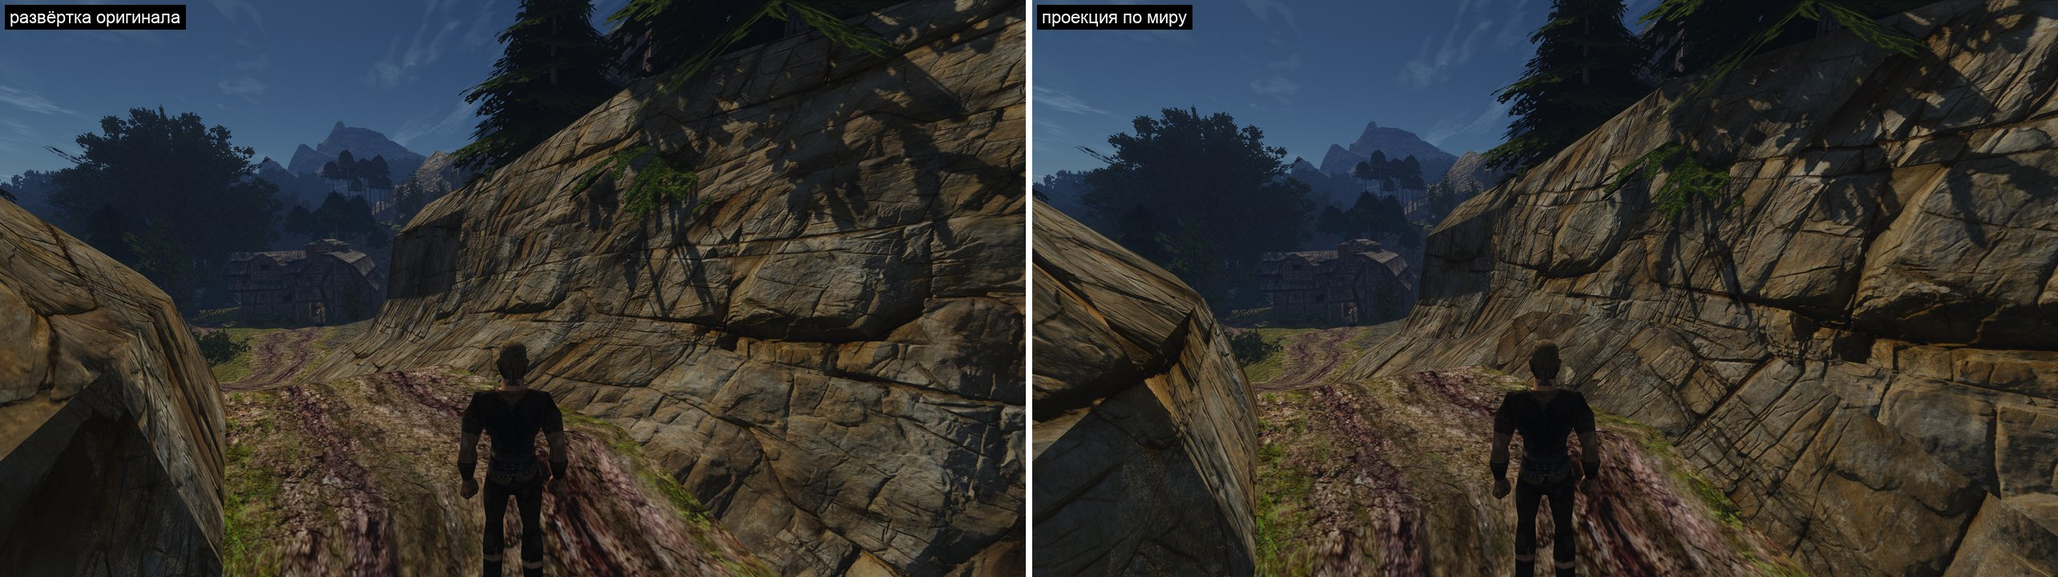
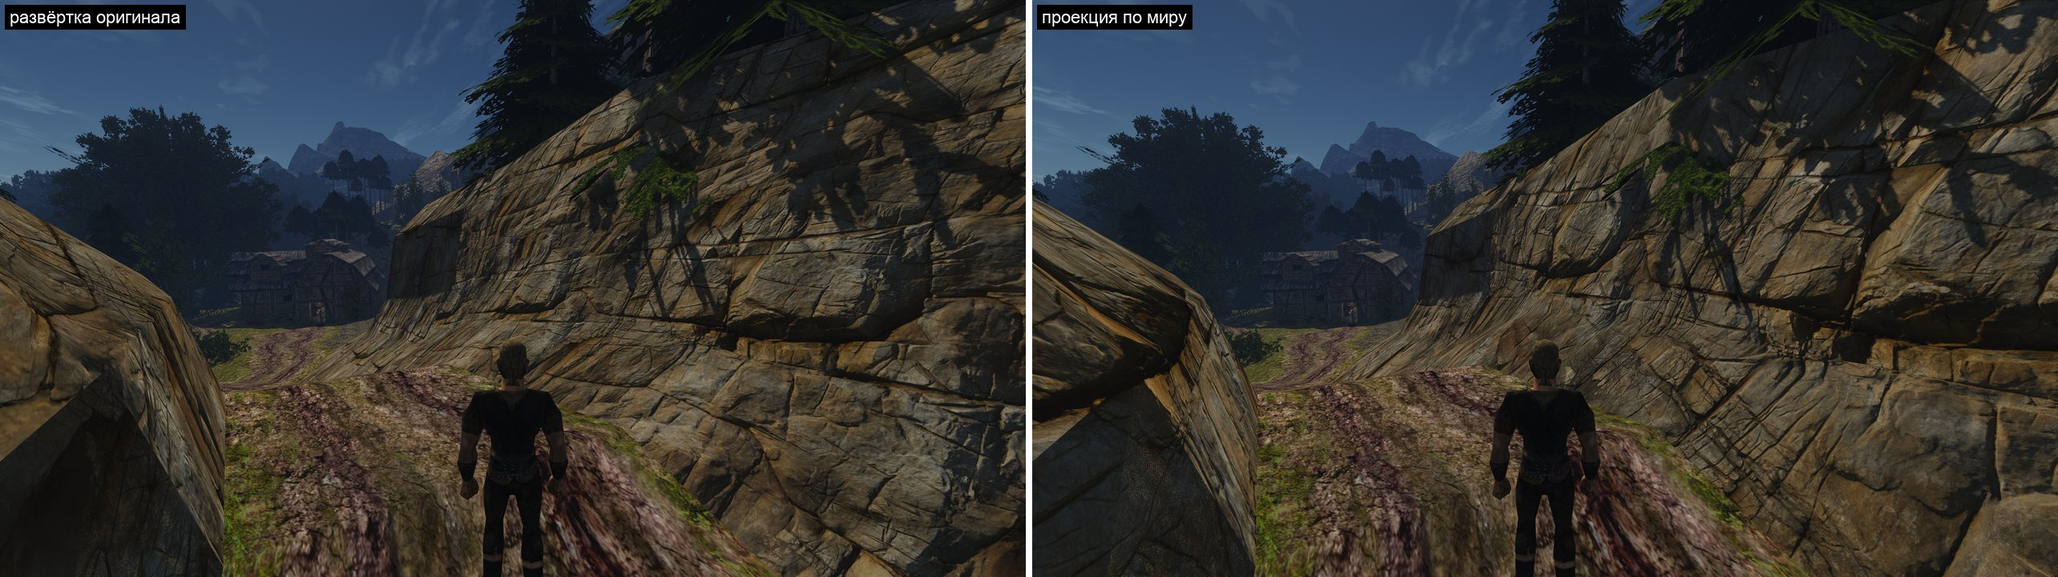
Rock projection: reshoot with the bounded selection normal, three-way plane-choice sheet, task 1 waits for acceptance by the frames

diff --git a/docs/features/engine-render.md b/docs/features/engine-render.md
@@ -62,7 +62,7 @@
 | Формы мимики Mark (Audio2Face v3.0) на своей голове: шаг `shapes` сборщика головы по ключу `"shapes": "mark"` в `npc.json` заменяет формы ARKit (кроме моргания, взгляда, `tongueOut`) на перенесённые с Mark — опорные точки рта, подбородка и век совпадают с точками Mark, веки и брови из одного источника, кожа не входит в яблоко — и пишет профиль лица с весами, пересчитанными под их размах, `speech_face` без `cap`, с `mouthClose` ×1,4; в игре губа за верхней 1,0–1,6 % почти закрытых кадров против 7,6–11,7 % у MPFB | собрать голову без ключа `shapes` (голова MPFB); контент с головой MPFB | `reports/content/2026-11-hero-head/shapes/` (`head_shapes.py`, `transfer.py`, `head_glb.py`, `mark_profile.py`), `scripts/content/npc/build_head.py` | `head_shapes.py` (опорные точки, кожа против яблока на пределах взгляда), `lip_gap.py`, `lip_gap_game.py --contact --mark` по `face.csv` клипа `speech-face-clip.bench`, `mark_clip.py` | [Свои персонажи](../own-content-characters.md), [разбор](../../reports/content/2026-11-hero-head/face-shapes.md#формы-mark-в-игре-2026-11-13) |
 | Свои осколки индексированного GLB: соседний `.fracture` v2 с размером/CRC32, без кэша оригинала; офлайн-резка без архивов; рядом с `model.debris.glb` — v3, куски по деталям вещи | удалить собственный `.fracture` или `[GAME] destruction=0`; без `model.debris.glb` резка пишет v2; запуск `scripts/fracture.sh content <каталог> [--verify]` явный | `common/physics/fracture.cpp`, `common/resources.*`, `scripts/fracture/` | `gothic-mesh-gltf-test`, unittest конвейера, `own-mesh-fracture` на Ryzen с индексом/без ([отчёт](../../reports/content/2026-10-own-meshes-fracture/README.md)) | [Своя игра](../own-content.md#как-работает-сейчас), [физика](../physics.md#подвижный-мир) |
 | Гекс-тайлинг своих карт: общий расчёт трёх ячеек, случайный сдвиг и поворот нормали; normal/ORM берут одну доминирующую ячейку при весе ≥0,7 с плавным переходом | `antitile: "off"` в записи `materials.json` (по умолчанию); `offset` сохраняет направление, `rotate` разрешает поворот; размер — `antitile_cell` | `resources.*`, `graphics/material.*`, `drawbuckets.*`, `shader/materials/main.frag` | `test-material.py --pattern antitile`, `rf.bench`: off/offset/rotate, автокорреляция, солнце/фонарь, PSNR и FPS | [Своя игра](../own-content.md#как-работает-сейчас) |
-| Проекция карт материала по миру (скалы): две плоскости по нормали грани, пласты горизонтальны, без швов и растяжения развёртки оригинала | поле `projection: {tile_m}` записи `materials.json` (без поля — по UV меша) | `resources.*`, `graphics/material.*`, `drawbuckets.*`, `visualobjects.cpp`, `shader/materials/material_projection.glsl` | `gothic-material-texture-test` (`projectionRecords`), `landscape-rock-material.bench`, место `rock` стенда `perf.sh` | [Свои материалы](../own-content-textures.md#карты-и-рендер), [задача 1 В3](../../reports/content/2026-11-landscape-pilot/b3-rock-material.md) |
+| Проекция карт материала по миру (скалы): две плоскости по нормали вершины в пределах 20° от грани, пласты горизонтальны, без швов и растяжения развёртки оригинала | поле `projection: {tile_m}` записи `materials.json` (без поля — по UV меша) | `resources.*`, `graphics/material.*`, `drawbuckets.*`, `visualobjects.cpp`, `shader/materials/material_projection.glsl` | `gothic-material-texture-test` (`projectionRecords`), `landscape-rock-material.bench`, место `rock` стенда `perf.sh` | [Свои материалы](../own-content-textures.md#карты-и-рендер), [задача 1 В3](../../reports/content/2026-11-landscape-pilot/b3-rock-material.md) |
 | Ray query (тени точечных светильников, свет не проходит сквозь стены) — **выключен по умолчанию на всех платформах** с 2026-10-28: сцена трассировки перестраивала весь TLAS при каждом сдвиге объекта, интерьер на M1 шёл 4–8 FPS. С 2026-11-09 (шаг 1б-2) сцена постоянная: сдвиг объекта переписывает его слот, TLAS собирается в кадре только при изменениях. С 2026-11-13 (шаг 1в) ландшафт с `-rt 1` подгружается по кускам: кусок при публикации строит две BLAS (сплошное и альфа-тест, геометрия на подмеш) из своей GPU-страницы, у слота — отрезок записей `rtDesc`; цельный ландшафт — те же две BLAS на весь мир | включить для опытов: `-rt 1` или для стендов `OPENGOTHIC_RT=1` (флаг главнее; на DX12 недоступно: TLAS в кадре есть только на Vulkan и Metal) | `common/commandline.*` | стенд `scripts/perf.sh interior` | [отчёт 10-18](../../reports/render-features/2026-10-18/README.md), [замер](../performance.md#план-и-журнал) |
 | GI-пробы на дискретной видеокарте с трассировкой — только вместе с `-rt 1`: точки попадания лучей проб освещаются по формулам трассировщика путей — все лампы в радиусе по дереву рамок ламп (один луч тени с перевзвешиванием по их свету; свет лампы — точное среднее функции трассировщика по пятну конуса сэмпла на плоскости попадания: интеграл вокруг основания лампы, по углу 8 направлений, 2б-3) и солнце с лучом тени, небо с его ночным небом, отскок от проб прошлого кадра (без пробы — своя освещённость пробы); сэмплы пересвечиваются по очереди (все за ≈0,125 с, очередь — по счётчику пересветов самой пробы) в кэш RGB9E5, новая проба — целиком и без истории; облучённость пробы — гармоники L2 со свёрткой косинуса (7 текселей RGBA16F на пробу, 4 МБ; 2б-2), смешиваются по времени на месте, без копии прошлого кадра (τ 0,1 с, сброс при скачке облучённости вдоль оси); при часах игры назад (загрузка сохранения) и смене мира пробы начинаются заново (бенч этого не проверяет: загрузки сохранения в сценарии нет), при скачке времени суток (сон, `set time`) их свет считается заново (`OPENGOTHIC_GI_JUMP_RESET=0` выключает это для замера затухания света в цепочках проб, `scripts/bench/gi-decay.bench`); свет в сэмплах и кубах хранится с масштабом 2⁻⁸ (днём лампы ×1/экспозиция дают до 10⁶ и выходили за 65 408 RGB9E5); пробы не зависят от взгляда (2б-1): lod по расстоянию до камеры, проба живёт, пока её берут пиксели или сэмплы других проб (5 с, при нехватке мест первой уходит самая давняя), попадания ближе 10 м без пробы заводят её (512 заявок за кадр), поиск пробы в попадании — в мире, пробы вне экрана пересвечиваются раз в 2 кадра; без SSAO и `ShadowMap #1`; счётчики `gi_probes_live`, `gi_probes_traced`, `gi_probes_from_hits`, `gi_probes_freed`. `-gi 2` — сурфели апстрима (прототип). Эталон для GI — трассировщик путей (консоль `toggle pathtrace`: 5 отскоков, солнце, небо, лампы) | `-gi 0`; для стендов `OPENGOTHIC_GI=0\|1\|2` (флаг главнее) | `common/gothic.cpp`, `common/commandline.*`, `common/graphics/renderer_gi.cpp` (`prepareGi`), `shader/lighting/rt/probe_*.comp\|frag`, `shader/lighting/lightstree/` | кадры и клипы `scripts/bench/gi-clips.bench` по вариантам (каждый кадр ещё и без героя, NPC и частиц — `-bare`; ракурсы утечек сквозь тонкие стены `leak-*`), эталон тех же кадров `scripts/bench/gi-reference.bench`, сравнение по клеткам, отклик, поворот и затухание `scripts/gi_compare.py` (`--response`, `--turn`, `--decay`), поворот камеры `scripts/bench/gi-turn.bench`, затухание без сброса `scripts/bench/gi-decay.bench`; цена — `scripts/perf.sh` с `OPENGOTHIC_GPU_PASSES=1` | [отчёт](../../reports/render-features/2026-10-18/README.md), [исследование GI](../../reports/render-features/2026-11-08-rt-revisit/step-2.md), [2а](../../reports/render-features/2026-11-08-rt-revisit/step-2.md#2а-сделано), [2б-1](../../reports/render-features/2026-11-08-rt-revisit/step-2b.md#2б-1-сделано), [пересмотр 2б-1](../../reports/render-features/2026-11-08-rt-revisit/step-2b.md#2б-1-пересмотр), [2б-2](../../reports/render-features/2026-11-08-rt-revisit/step-2b.md#2б-2-сделано), [2б-3](../../reports/render-features/2026-11-08-rt-revisit/step-2b.md#2б-3-сделано) |
 | Привыкание глаза под GI (`-gi 1`): множитель кадра в проходе тонов после всего света, блума и TAA — замер освещённости кадра (яркость / альбедо G-буфера, не меньше 0,01, × 0,18, как `IgnoreMaterials` у UE) после дымки, до прозрачного и частиц, без неба (сетка 128×72, гистограмма логарифмов, окно 50–95 %, чтение через кадр), ключ открытого места (день +1,6 EV освещённости — рынок в полдень; ночь −2,0 — поля в 23:00), только вверх, не больше 2,5 ступени, 1 ступень/с к темноте и 3 к свету, сброс без хода при скачке камеры больше 3 м за кадр (телепорт, срез с переносом камеры; поворот на месте — обычным ходом), часах назад и скачке времени суток больше 10 игровых минут; без GI множитель ровно 1. Вместе с ним: дымка у камеры нарастает с нуля — вуаль рассеяния целого слоя таблицы дымки в метре от камеры убрана (и без GI). Под GI и у эталона многократное рассеяние дымки на шаге луча × `mix(бит тени солнца, 1, visCam)` (Д4), где `visCam` — доля неба над камерой в конусе 45° у зенита (16 лучей за кадр с альфа-тестом, все 256 направлений на сбросе, среднее τ 0,5 с): в пещере пелена в тени уходит (`visCam` 0), в лесу — частично (0,31–0,37); открытые места 0,86–1,0; прозрачное (частицы, стекло) берёт ту же долю по битам тени солнца вдоль своего луча (`L_FogOcc`), вода — дымку `fog.frag` | `-eye 0` или `OPENGOTHIC_EYE=0` (флаг главнее); журнал множителя `OPENGOTHIC_EYE_LOG=<файл>` | `shader/lighting/eye_meter.comp`, `common/graphics/eyeadaptation.*`, `renderer_eye.cpp`, `renderer_post.cpp`; дымка — `shader/sky/fog.frag` (`FOG_SKY_VIS`), `shader/materials/main.frag`, `shader/lighting/rt/fog_sky_vis.comp`, `renderer_fogsky.cpp` | листы `step-2/eye-<ракурс>.jpg`, `eye-veil.jpg`, `eye-haze.jpg`, клипы `scripts/bench/gi-accept.bench` в трёх вариантах, журнал `OPENGOTHIC_EYE_LOG`; цена — `scripts/perf.sh` с `OPENGOTHIC_GPU_PASSES=1` (проход `Eye-meter`) | [привыкание глаза](../../reports/render-features/2026-11-08-rt-revisit/step-2-shade.md#привыкание-глаза-сделано-12112026) |

diff --git a/reports/content/2026-11-landscape-pilot/b3-rock-material.md b/reports/content/2026-11-landscape-pilot/b3-rock-material.md
@@ -84,7 +84,7 @@
 
 **Способ.**
 - Две плоскости (Quilez): главная и средняя оси нормали, доли `clamp((|n| − 0,577)/0,423)` в квадрате; доля ниже 1/64 обнуляется, обе доли пересчитываются одинаково (на 45° — ровно 0,5 и 0,5), поэтому вторая плоскость выбирается только на гранях 37–53° от оси, иначе одна выборка на карту.
-- Плоскости выбираются по нормали самой грани (`cross(dFdx(pos), dFdy(pos))`), не по сглаженной нормали вершины. Первый прогон с нормалью вершины размазал левую грань валуна вертикальными полосами: у скал Gothic она на острых рёбрах отходит от грани до 45°, и плоскость выбирается поперёк грани ([пара](shots/projection-face-normal.jpg)). По нормали грани растяжение не больше 1,41, соседние грани одной плоскости продолжают рисунок без шва.
+- Плоскости и их доли выбираются по нормали вершины, удержанной в пределах 20° от нормали самой грани (`cross(dFdx(pos), dFdy(pos))`; постоянная `ProjectionLimit*`). Решение ведущего после двух проб ([лист](shots/projection-plane-choice.jpg)): по одной нормали грани доли постоянны на треугольнике и скачут на его рёбрах — лоскуты на гранях почти одного наклона; по одной нормали вершины доли непрерывны, но у скал Gothic она на острых рёбрах отходит от грани до 45°, плоскость ложится поперёк грани и размазывает её. В пределах 20° берётся нормаль вершины: доли непрерывны, грани до 40° друг к другу продолжают рисунок без обрыва; дальше — нормаль грани, повёрнутая к ней на 20°: плоскость не дальше 20° от грани, растяжение ограничено, обрыв остаётся только на остром ребре. Базисы нормали по-прежнему на нормали затенения.
 - В боковых плоскостях v = −высота мира (вниз, как v движка), u — вдоль грани, так что cross(u, v) смотрит наружу и рисунок не зеркалится; сверху и снизу — плоскость XZ.
 - Градиенты выборок — `dot(dFdx(pos), ось)·k·mipGradScale`, общие для обеих плоскостей: скачка мипа на смене плоскости нет.
 - Нормаль: в каждой плоскости базис `mappedNormal` этой плоской развёртки — поверхностные градиенты u и v, `ось − n(n·ось)`, со знаком экранного определителя и общей нормировкой по большей длине; затем две нормали смешиваются. На грани вдоль оси базис совпадает с тем, что `mappedNormal` строит по UV меша, уложенной так же.
@@ -99,14 +99,14 @@
 ![arch](shots/projection-arch.jpg)
 ![eve-3](shots/projection-eve-3.jpg)
 
-- **`road-2`, `road-3`, `eve-3` — стена у дороги.** Пласты горизонтальны по всей стене, швов развёртки нет. Наклонные полосы оригинала ушли. Ближний валун слева на `road-3` и `eve-3` виден почти с ребра, рисунок на нём сжат ракурсом, растяжения нет.
-- **`road-4` — валун.** Тёмного прямоугольника нет; пласты горизонтальны на боковых гранях. Что осталось: где соседние грани валуна попали в разные плоскости, рисунок обрывается по их общему ребру (треугольники в середине валуна). Обрыв лежит на ребре геометрии, но на гранях почти одного наклона он читается как лоскут.
+- **`road-2`, `road-3`, `eve-3` — стена у дороги.** Пласты горизонтальны по всей стене, швов развёртки нет. Наклонные полосы оригинала ушли. Ближний валун слева на `road-3` и `eve-3`: большая грань идёт через свои треугольники одним рисунком; грань справа видна почти с ребра, рисунок сжат ракурсом. Рисунок меняется на остром гребне между ними.
+- **`road-4` — валун** ([три способа выбора](shots/projection-plane-choice.jpg)). Полос на левой грани нет (были по нормали вершины). Лоскутов-треугольников в середине валуна нет (были по нормали грани): от прогона по нормали грани кадр отличается только на пяти гранях, каждая меняется целиком, в части грани ничего не поменялось. Где рисунок ещё меняется: длинное ребро между наклонным верхом и отвесной стороной, рёбра левой наклонной грани и гребень над ней — рёбра, на которых меняется и свет, то есть грани расходятся заметно больше 40°. Внутри одной грани линии смены долей не видно ни на одном кадре.
 - **`ledge` — уступ издали.** Пласты горизонтальны на обеих гранях, угол стыкуется. Читается повтор рисунка с шагом 5,75 м по ширине стены — это задача 3.
 - **`arch` — арка.** Единый слоистый камень вместо лоскутов разной плотности; тот же повтор крупных блоков на большой стене.
-- **Яркость.** Средняя яркость скалы на кадре против развёртки оригинала: `road-2` 0,99, `road-3` 0,98, `ledge` 0,99, `road-4` 1,01, `arch` 1,00.
-- **Линии смены плоскости** на гранях около 45° не видно ни на одном кадре: в пределах грани доли постоянны.
+- **Стена и арка против прошлых листов.** На `road-2`, `road-3`, `eve-3`, `ledge` кадр от прогона по нормали грани отличается на 0,3–2 % пикселей (порог 24 из 255) — отдельные грани; на вид без изменений. `arch` отличается на 21 %, но так же отличаются земля и трава: ракурс `arch` сдвигается от прогона к прогону (между двумя прошлыми прогонами — те же 21 %).
+- **Яркость.** Средняя яркость скалы на кадре против развёртки оригинала: `road-2` 1,00, `road-3` 0,99, `ledge` 0,99, `road-4` 1,02, `arch` 1,00.
 
-**Что не так.** Пункт приёмки «без обрыва на гранях валуна» не выполнен: рисунок обрывается по рёбрам, где соседние грани в разных плоскостях (`road-4`). Это плата за выбор плоскостей по нормали грани; по сглаженной нормали вершины, как сказано в брифе, обрывов меньше, но грани с острыми рёбрами размазываются ([пара](shots/projection-face-normal.jpg)). Третий круг подбором не начат; выбор за пользователем: (а) оставить нормаль грани; (б) вернуть нормаль вершины и принять размазывание на острых рёбрах; (в) нормаль вершины, повёрнутая к грани не дальше заданного угла, — компромисс, нужна проба. Повтор 5,75 м на больших стенах — задача 3.
+**Что не так.** На валуне рисунок меняется по острым рёбрам (больше 40° между гранями); их скругление под новым материалом — дело геометрии (В2 как вспомогательный шаг), не этой задачи. Повтор 5,75 м на больших стенах — задача 3. Задача ждёт приёмки по кадрам.
 
 **Цена.** Выборок на пиксель: по UV меша — 3 (цвет, нормаль, ORM), с проекцией — 3, на гранях 37–53° от оси — 6. Время видеокарты на вид `road-3` — место `rock` стенда `scripts/perf.sh` ([`perf-rock.bench`](../../../scripts/bench/perf-rock.bench)): RTX 3080, 1920×1080, полное разрешение, VSM, заявки `gq quiet`, 8 с `perf sample` (970–1048 кадров), медиана `gpu_ns`. Скала — около половины кадра.
 

diff --git a/docs/own-content-textures.md b/docs/own-content-textures.md
@@ -10,7 +10,7 @@
 - Прямые загрузки альбедо у вариаций статичных и skinned-мешей и осколков проходят через `Resources::loadMaterialAlbedo`: конечное имя ищется в `materials.json`, успешная подмена отмечается обычным `materialAlbedoReplaced`, при отсутствии своего albedo вызывается прежний загрузчик. Ошибка собственного DDS даёт заглушку без открытия оригинала и без отметки подмены. Вариации включают только теги `_V0`/`_C0`, которые подставляет движок; буквы `V`/`C` внутри слов их не включают. Классификация прозрачности пересчитывается для выбранного albedo по исходным `alpha_func`, группе, `color.a` и разрешению альфа-теста, как в конструкторе; у осколков альфа-тест по умолчанию выключен. Явные переопределения режима сохраняются. Проверка — target `gothic-material-texture-test`: настоящий Resources с временными DDS/JSON, вариантное имя, перепись, пустой индекс и создание skinned `ProtoMesh`/`MeshObjects::Mesh` с проверкой материала draw bucket.
 
 - Антиповтор своих карт включается у записи `materials.json`: `antitile: "offset"` — случайный сдвиг, `"rotate"` — также случайный поворот; `"off"` и отсутствие поля сохраняют прежние выборки. `antitile_cell` — положительный конечный размер ячейки в единицах масштабированной плитки, по умолчанию 1,0. Гекс-тайлинг по [Mikkelsen, JCGT 2022](https://jcgt.org/published/0011/03/05/) смешивает три соседние ячейки с контрастом весов по яркости albedo. Координаты ячеек, повёрнутые производные и яркостные веса считаются один раз. Цвет берёт три выборки; при максимальном весе ≥0,7 нормаль и ORM берут одну общую доминирующую ячейку, иначе три. Между весами 0,6 и 0,7 вспомогательные веса плавно сходятся к доминирующей ячейке: на границе переключения скачка нет. XY нормали переводится из повёрнутых UV в исходную касательную плоскость. Действует только на `MATERIAL_MAPS` у статичных материалов со своей записью; флаги и `antitileCell` передаются через `Material` / `DrawBuckets`. Выключение — `antitile: "off"`; классы с направлением используют `offset` ([таблица](content-style.md#классы-материалов)). Синтетическая проверка — `scripts/content/test-material.py --pattern antitile --antitile off|offset|rotate`, точка `city` стенда `rf.bench`; `--autocorrelation` измеряет пик яркости на периоде плитки, `--psnr` сравнивает кадры без контента. Принятые пороги: `offset` — ≥1,5× при `scale=2`, `rotate` — ≥2×. `--neutral-albedo --no-ao` с усиленной нормалью и контроль `--flat-normal` отделяют освещение рельефа от цвета.
-- Проекция по миру (скалы, [задача 1 шага В3](../reports/content/2026-11-landscape-pilot/b3-rock-material.md)): `"projection": {"tile_m": 5.75}` — карты записи берутся не по UV меша, а по мировой позиции, `tile_m` метров мира на повтор; `scale` при этом не действует. Двухплоскостная проекция (Quilez) — [`material_projection.glsl`](../OpenGothic/shader/materials/material_projection.glsl): две плоскости, на которые грань смотрит больше всего, выбранные по нормали самой грани (сглаженная нормаль вершины на рёбрах скал размазывает текстуру); в боковых плоскостях v — высота мира, пласты горизонтальны, сверху — плоскость XZ. Производные — от позиции, с `mipGradScale`; нормаль поворачивается в каждой плоскости в базисе `mappedNormal` этой плоской развёртки, затем смешивается. Цена — до двух выборок на карту там, где видны обе плоскости, одна в остальном. Только G-буфер непрозрачных материалов меша мира и статичных мешей; у скелетных и морф-моделей запись работает по UV. Неверный тип, `tile_m` ≤ 0 и проекция с `antitile`, отличным от `off`, отвергают запись целиком при чтении; текстура с альфой (альбедо записи или оригинал не в DXT1) — при сборке материала (`Resources::rejectMaterialMaps`, одна строка журнала, дальше — оригинал). Материал, который zen-настройки делают прозрачным или альфа-тестом при непрозрачной текстуре, рисуется по UV, запись для других остаётся. Слот `uvScale` ведра несёт повторы на сантиметр (`Material::projectionUvScale`), раскладка ведра не меняется; плотность для стриминга текстур — один повтор на `tile_m`, у морф-мешей — по UV. Трассировка проб и путей берёт цвет попадания по UV меша (как и без проекции, `scale` она тоже не учитывает). Проверка — `gothic-material-texture-test` (`projectionRecords`), кадры `landscape-rock-material.bench`, цена — место `rock` стенда `scripts/perf.sh`.
+- Проекция по миру (скалы, [задача 1 шага В3](../reports/content/2026-11-landscape-pilot/b3-rock-material.md)): `"projection": {"tile_m": 5.75}` — карты записи берутся не по UV меша, а по мировой позиции, `tile_m` метров мира на повтор; `scale` при этом не действует. Двухплоскостная проекция (Quilez) — [`material_projection.glsl`](../OpenGothic/shader/materials/material_projection.glsl): две плоскости, на которые грань смотрит больше всего, выбранные по нормали вершины, удержанной в пределах 20° от нормали грани (доли непрерывны через грани до 40° друг к другу, плоскость не ложится поперёк грани на острых рёбрах); в боковых плоскостях v — высота мира, пласты горизонтальны, сверху — плоскость XZ. Производные — от позиции, с `mipGradScale`; нормаль поворачивается в каждой плоскости в базисе `mappedNormal` этой плоской развёртки, затем смешивается. Цена — до двух выборок на карту там, где видны обе плоскости, одна в остальном. Только G-буфер непрозрачных материалов меша мира и статичных мешей; у скелетных и морф-моделей запись работает по UV. Неверный тип, `tile_m` ≤ 0 и проекция с `antitile`, отличным от `off`, отвергают запись целиком при чтении; текстура с альфой (альбедо записи или оригинал не в DXT1) — при сборке материала (`Resources::rejectMaterialMaps`, одна строка журнала, дальше — оригинал). Материал, который zen-настройки делают прозрачным или альфа-тестом при непрозрачной текстуре, рисуется по UV, запись для других остаётся. Слот `uvScale` ведра несёт повторы на сантиметр (`Material::projectionUvScale`), раскладка ведра не меняется; плотность для стриминга текстур — один повтор на `tile_m`, у морф-мешей — по UV. Трассировка проб и путей берёт цвет попадания по UV меша (как и без проекции, `scale` она тоже не учитывает). Проверка — `gothic-material-texture-test` (`projectionRecords`), кадры `landscape-rock-material.bench`, цена — место `rock` стенда `scripts/perf.sh`.
 
 ## Реестр и городские наборы
 

diff --git a/docs/landscape-plan.md b/docs/landscape-plan.md
@@ -107,7 +107,7 @@ Claude, по [конвейеру ремастера](remaster-pipeline.md); ка
 
 | № | Что | Состояние |
 |---|---|---|
-| 1 | Проекция материала по миру: две главные плоскости нормали, пласты горизонтальны на любой грани, без швов и растяжения развёртки оригинала | код и кадры 2026-11-13 ([что вышло](../reports/content/2026-11-landscape-pilot/b3-rock-material.md#задача-1-что-вышло)), не принята: обрывы рисунка по рёбрам граней валуна в разных плоскостях, выбор способа — за пользователем |
+| 1 | Проекция материала по миру: две главные плоскости нормали, пласты горизонтальны на любой грани, без швов и растяжения развёртки оригинала | код и кадры 2026-11-13 ([что вышло](../reports/content/2026-11-landscape-pilot/b3-rock-material.md#задача-1-что-вышло)), ждёт приёмки по кадрам |
 | 2 | Трава по кромке вторым слоем; место слоя берётся из развёртки полос оригинала (`NW_NATURE_STEIN_02/04`) | — |
 | 3 | Вариация без разрыва пластов: крупный шум оттенка, тот же материал в масштабе ×4 с расстоянием | — |
 | 4 | Набор сканов для пяти текстур (95 % скал острова) и их родни, цвет по кадрам игры, материал травы кромки | сканы выбраны и скачаны 2026-11-13; сборка и цвет — после задачи 1 |
@@ -149,4 +149,4 @@ Claude, по [конвейеру ремастера](remaster-pipeline.md); ка
 - **2026-11-13.** Проба слоёв на том же месте ([заметка](../reports/content/2026-11-landscape-pilot/layers-probe.md)); пользователь разрешил загрузку CC0 с Poly Haven («Да, скачивай», 336 МБ вне git). Материал: три текстуры стены взяли карты скана слоистого обрыва (4096 px, 680–920 пикселей на метр против 43–58) — разница явная на каждом кадре со скалой, сильнее всего при низком солнце. Цвет пришлось править по кадрам игры (равные средние текстур давали стену в 1,4–1,5 раза ярче), укладку против повторов выключить (режет пласты швами). Вместе со старой текстурой пропала нарисованная трава по кромкам; макет возвращает её поверх скана. Отражённый свет на открытом месте меняет только тени. Камни у этой стены не оценены: её подножие — дорога шириной 3–5 м. Вывод: материал скалы — первый шаг вида; ему нужны слой травы по кромкам, вариация против повторов без разрыва пластов и проекция по миру. Вердикт пользователя по кадрам и клипу — впереди.
 - **2026-11-13.** Пользователь по кадрам и клипу пробы слоёв: «Да, материал первым». Порядок шагов вида переставлен по отдаче; шаг В3 разбит на задачи для скал ([заметка](../reports/content/2026-11-landscape-pilot/b3-rock-material.md)): пять текстур покрывают 95 % скал острова, `NW_NATURE_STEIN_07` (58 % площади) — дальние горы. Место травы по кромке берётся из развёртки оригинала, без новых данных в меше.
 - **2026-11-13.** В3, задача 4: пользователь разрешил докачать сканы («Да, скачивай»); выбраны и скачаны с Poly Haven (CC0, вне git) второй обрыв той же породы, крупномасштабный камень для дальних гор, замшелый камень, трава и модель травяных пучков — список в [заметке](../reports/content/2026-11-landscape-pilot/b3-rock-material.md#задача-4-выбранные-сканы). Задача 1 (проекция по миру) запущена у исполнителя.
-- **2026-11-13.** В3, задача 1: проекция материала по миру — поле `"projection": {"tile_m": N}` записи `materials.json`, две плоскости по нормали грани, v — высота мира. На кадрах пробы пласты горизонтальны на каждой грани, тёмного прямоугольника на валуне и растянутых граней нет, яркость скалы 0,98–1,01 от развёртки оригинала; остались обрывы рисунка по рёбрам, где соседние грани в разных плоскостях, — пункт приёмки «без обрыва на гранях валуна» не выполнен, выбор способа за пользователем. Цена на `road-3` — в [заметке](../reports/content/2026-11-landscape-pilot/b3-rock-material.md#задача-1-что-вышло).
+- **2026-11-13.** В3, задача 1: проекция материала по миру — поле `"projection": {"tile_m": N}` записи `materials.json`, две плоскости по нормали вершины, удержанной в пределах 20° от грани, v — высота мира. На кадрах пробы пласты горизонтальны на каждой грани, тёмного прямоугольника, полос и лоскутов на валуне нет, яркость скалы 0,99–1,02 от развёртки оригинала; рисунок меняется только на острых рёбрах. Ждёт приёмки по кадрам. Цена на `road-3` — в [заметке](../reports/content/2026-11-landscape-pilot/b3-rock-material.md#задача-1-что-вышло).
